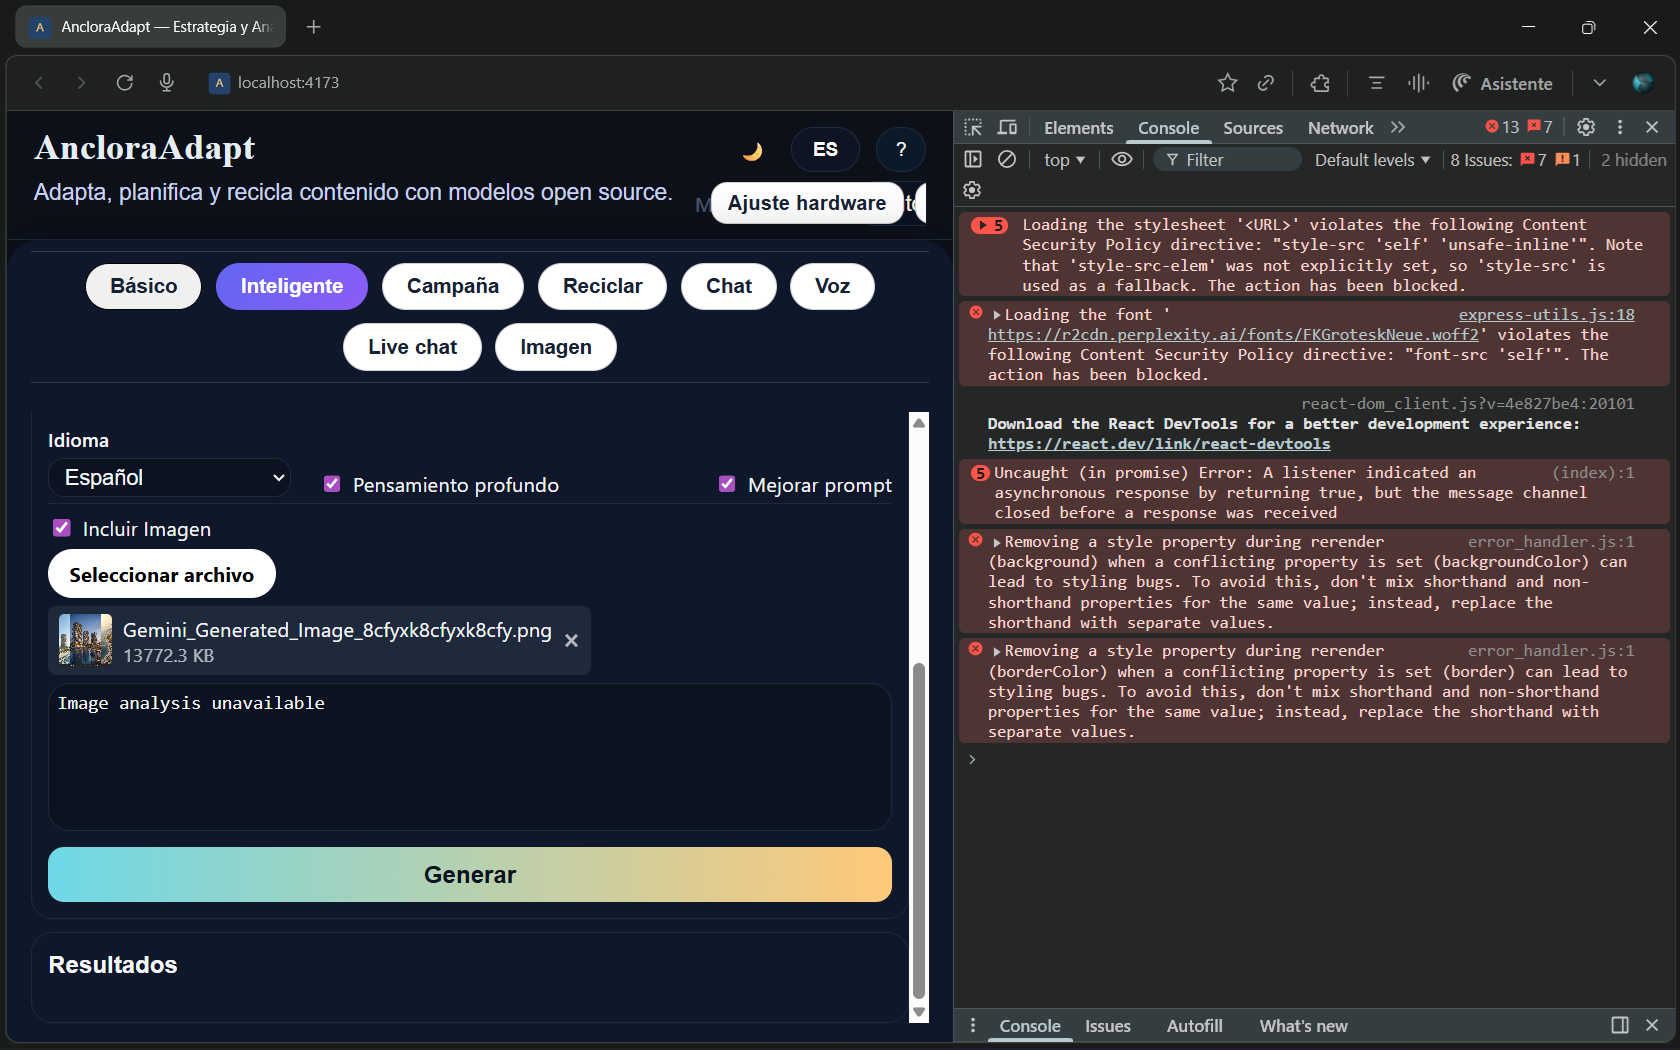
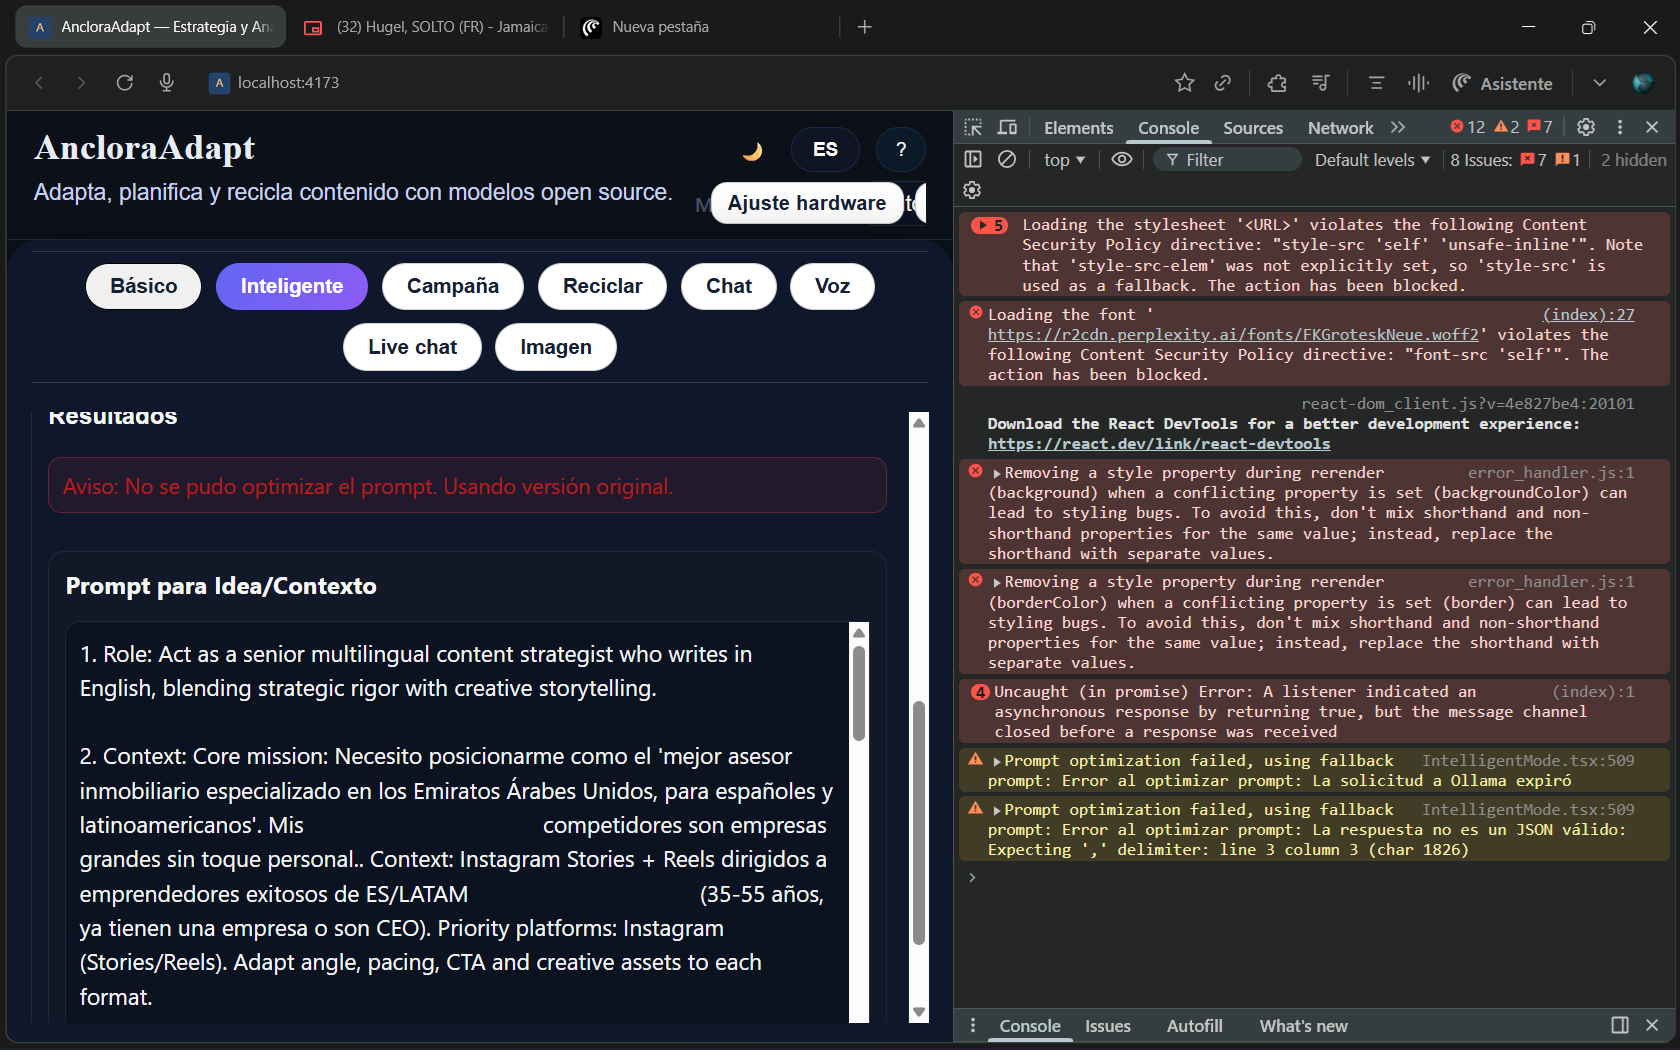
mejora prompt modo inteligente

diff --git a/src/components/modes/IntelligentMode.tsx b/src/components/modes/IntelligentMode.tsx
@@ -84,33 +84,188 @@ const buildIdeaPromptFallback = ({
   idea,
   context,
   languageLabel,
+  languageCode,
   deepThinking,
   platformHints,
 }: {
   idea: string;
   context: string;
   languageLabel: string;
+  languageCode: string;
   deepThinking: boolean;
   platformHints: string[];
 }): string => {
-  const platformSentence = platformHints.length
-    ? `Plataformas prioritarias: ${platformHints.join(
-        ", "
-      )}. Ajusta narrativa, ritmo, formato y CTA para cada una.`
-    : "Elige la mezcla de plataformas más efectiva y justifica brevemente por qué potencian el mensaje.";
-  const depthDirective = deepThinking
-    ? "Modo pensamiento profundo activo: analiza riesgos reputacionales, objeciones latentes, dependencias operativas y oportunidades de co-creación. Propón ideas accionables a corto, medio y largo plazo."
-    : "Modo estándar: prioriza claridad estratégica, foco en diferenciación y velocidad de ejecución.";
+  const locale = languageCode?.startsWith("en") ? "en" : "es";
+  const normalizedContext = context || (locale === "en" ? "General context" : "Contexto general");
+
+  const ageMatch = normalizedContext.match(/(\d{2})\s*-\s*(\d{2})/);
+  const ageDescriptor = ageMatch
+    ? locale === "en"
+      ? `${ageMatch[1]}-${ageMatch[2]} years old`
+      : `${ageMatch[1]}-${ageMatch[2]} años`
+    : locale === "en"
+    ? "35-55 years old decision makers"
+    : "35-55 años tomadores de decisión";
+
+  const executiveAudience =
+    /ceo|founder|emprendedor|entrepreneur|director/i.test(normalizedContext);
+  const audienceRole = executiveAudience
+    ? locale === "en"
+      ? "founders, CEOs and serial entrepreneurs"
+      : "fundadores, CEO y emprendedores seriales"
+    : locale === "en"
+    ? "business decision makers seeking premium advisory"
+    : "decisores de negocio que buscan asesoría premium";
+
+  const platformSentence =
+    platformHints.length > 0
+      ? locale === "en"
+        ? `Priority platforms: ${platformHints.join(
+            ", "
+          )}. Adapt angle, pacing, CTA and creative assets to each format.`
+        : `Plataformas prioritarias: ${platformHints.join(
+            ", "
+          )}. Ajusta ángulo, ritmo, CTA y recursos creativos a cada formato.`
+      : locale === "en"
+      ? "Select the most effective platform mix and justify how each channel reinforces the core story."
+      : "Selecciona la mezcla de canales más efectiva y justifica cómo cada uno refuerza la narrativa.";
+
+  const toneDescriptor = locale === "en"
+    ? "premium, consultative, culturally bilingual, confident yet empathetic"
+    : "premium, consultivo, bilingüe cultural, seguro pero empático";
+
+  const keyMessages = locale === "en"
+    ? [
+        "Highlight bespoke advisory, deep knowledge of UAE regulations, and bilingual negotiation",
+        "Contrast personal touch versus impersonal large firms",
+        "Showcase credibility (success stories, certifications, network in Dubai/Abu Dhabi)",
+      ]
+    : [
+        "Destaca el acompañamiento a medida, dominio regulatorio en EAU y capacidad de negociación bilingüe",
+        "Contrasta el trato personal frente a firmas impersonales",
+        "Refuerza credenciales (casos de éxito, certificaciones, red en Dubái/Abu Dabi)",
+      ];
+
+  const objectives = locale === "en"
+    ? [
+        "Position the advisor as the go-to Spanish-speaking expert for premium real estate moves in UAE",
+        "Generate qualified leads via high-intent storytelling tailored to each social format",
+        "Drive private consultations or discovery calls with affluent prospects",
+      ]
+    : [
+        "Posicionar al asesor como referente hispanohablante para inversiones inmobiliarias premium en EAU",
+        "Generar leads cualificados con relato de alto interés ajustado a cada formato social",
+        "Impulsar sesiones privadas o llamadas exploratorias con prospectos de alto patrimonio",
+      ];
+
+  const restrictions = locale === "en"
+    ? [
+        "Avoid generic motivational clichés or empty luxury buzzwords",
+        "Do not promise guaranteed returns; focus on strategic guidance",
+        "Keep every platform output within its character and style constraints",
+      ]
+    : [
+        "Evita clichés motivacionales genéricos o palabras vacías sobre lujo",
+        "No prometas retornos garantizados; enfócate en la guía estratégica",
+        "Mantén cada plataforma dentro de sus límites de estilo y caracteres",
+      ];
+
+  const kpis = locale === "en"
+    ? [
+        "Qualified leads captured per platform",
+        "DMs or calls booked with affluent prospects",
+        "Engagement rate lift on Stories/Reels compared to last month",
+      ]
+    : [
+        "Leads cualificados captados por plataforma",
+        "DM/calendly agendados con prospectos de alto patrimonio",
+        "Incremento de engagement en Stories/Reels vs. mes anterior",
+      ];
+
+  const checklist = locale === "en"
+    ? [
+        "Does each platform have a clear hook, proof point, and CTA?",
+        "Are cultural nuances for ES/LATAM audiences respected while referencing UAE context?",
+        "Is there a differentiated angle versus large, impersonal competitors?",
+      ]
+    : [
+        "¿Cada plataforma tiene gancho, prueba y CTA claros?",
+        "¿Se respetan los matices culturales ES/LATAM al hablar de EAU?",
+        "¿Se evidencia un ángulo distintivo frente a competidores impersonales?",
+      ];
+
+  const depthSentence =
+    locale === "en"
+      ? deepThinking
+        ? "Deep thinking mode: map hidden objections (trust, legal risk, relocation stress), propose mitigation tactics and cascade ideas for short, mid and long term content."
+        : "Standard mode: prioritize clarity, authority and fast execution."
+      : deepThinking
+      ? "Modo pensamiento profundo: mapea objeciones latentes (confianza, riesgo legal, estrés de reubicación), propone tácticas de mitigación e ideas a corto, mediano y largo plazo."
+      : "Modo estándar: prioriza claridad, autoridad y velocidad de ejecución.";
+
+  const platformCTA =
+    locale === "en"
+      ? `Primary CTA: "Schedule a private strategy call". Secondary CTA: "Download the UAE entry checklist" (Stories swipe-up or WhatsApp).`
+      : `CTA principal: "Agenda una sesión estratégica privada". CTA secundario: "Descarga el checklist de entrada a EAU" (swipe-up en Stories o WhatsApp).`;
+
+  const sections = [
+    {
+      title: locale === "en" ? "Role" : "Rol",
+      content:
+        locale === "en"
+          ? `Act as a senior multilingual content strategist who writes in ${languageLabel}, blending strategic rigor with creative storytelling.`
+          : `Actúa como estratega senior de contenido multimodal que redacta en ${languageLabel}, combinando rigor estratégico con narrativa creativa.`,
+    },
+    {
+      title: locale === "en" ? "Context" : "Contexto",
+      content: locale === "en"
+        ? `Core mission: ${idea}. Context: ${normalizedContext}. ${platformSentence}`
+        : `Misión central: ${idea}. Contexto: ${normalizedContext}. ${platformSentence}`,
+    },
+    {
+      title: locale === "en" ? "Audience" : "Audiencia",
+      content: locale === "en"
+        ? `Segment: ${audienceRole}, ${ageDescriptor}. Needs: reliable partner to invest/relocate in UAE without losing cultural nuances or transparency.`
+        : `Segmento: ${audienceRole}, ${ageDescriptor}. Necesidades: aliado confiable para invertir/reubicarse en EAU sin perder matices culturales ni transparencia.`,
+    },
+    {
+      title: locale === "en" ? "Objectives" : "Objetivos",
+      content: objectives.map((obj, index) => `${index + 1}) ${obj}`).join(" "),
+    },
+    {
+      title: locale === "en" ? "Key Messages" : "Mensajes clave",
+      content: keyMessages.map((msg, index) => `${index + 1}) ${msg}`).join(" "),
+    },
+    {
+      title: locale === "en" ? "Tone & Style" : "Tono/Estilo",
+      content:
+        locale === "en"
+          ? `${toneDescriptor}. Balance data-driven insight with aspirational storytelling.`
+          : `${toneDescriptor}. Equilibra insight basado en datos con relato aspiracional.`,
+    },
+    {
+      title: "CTA",
+      content: platformCTA,
+    },
+    {
+      title: locale === "en" ? "Restrictions" : "Restricciones",
+      content: restrictions.map((item, index) => `${index + 1}) ${item}`).join(" "),
+    },
+    {
+      title: "KPIs",
+      content: kpis.map((kpi, index) => `${index + 1}) ${kpi}`).join(" "),
+    },
+    {
+      title: locale === "en" ? "Checklist" : "Checklist",
+      content: checklist.map((item, index) => `${index + 1}) ${item}`).join(" "),
+    },
+  ];
 
   return [
-    `Rol: actúa como estratega senior de contenido multimodal que escribe instrucciones en ${languageLabel}.`,
-    `Objetivo central del cliente: ${idea}.`,
-    `Contexto ampliado: ${context}. ${platformSentence}`,
-    "Define la audiencia ideal (demografía + psicografía), el tono que genere confianza premium y los pain points que deben resolverse para posicionar al asesor como referente.",
-    "Entregable obligatorio: redacta un prompt maestro listo para un LLM que incluya misión, enfoque narrativo, estructura sugerida por plataforma, propuestas de valor, CTA principal/secundario, diferenciadores competitivos y métricas de éxito.",
-    "Incluye también: lista de ideas de apoyo, ángulos creativos alternos, hashtags o etiquetas sugeridas (si aplican) y bloque de errores a evitar.",
-    depthDirective,
-    'Formato final: usa secciones numeradas "Rol", "Contexto", "Audiencia", "Objetivos", "Mensajes clave", "Tono/Estilo", "CTA", "Restricciones", "KPIs" y "Checklist". Devuelve únicamente el prompt final listo para copiar/pegar.',
+    sections
+      .map((section, index) => `${index + 1}. ${section.title}: ${section.content}`)
+      .join("\n\n"),
+    depthSentence,
   ].join("\n\n");
 };
 
@@ -386,6 +541,7 @@ const IntelligentMode: React.FC<IntelligentModeProps> = ({
         idea: sanitizedIdea,
         context: normalizedContext,
         languageLabel: languageDisplay,
+        languageCode: language,
         deepThinking,
         platformHints,
       });
